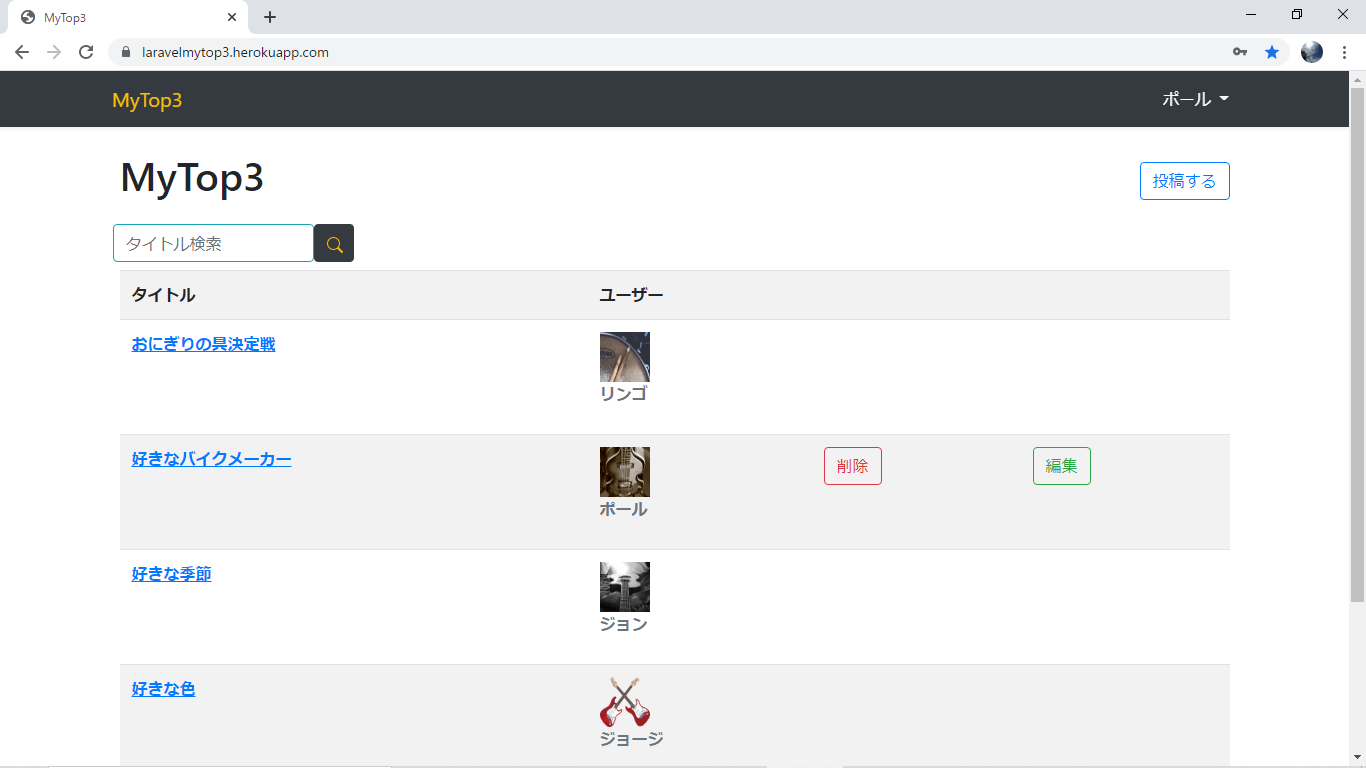
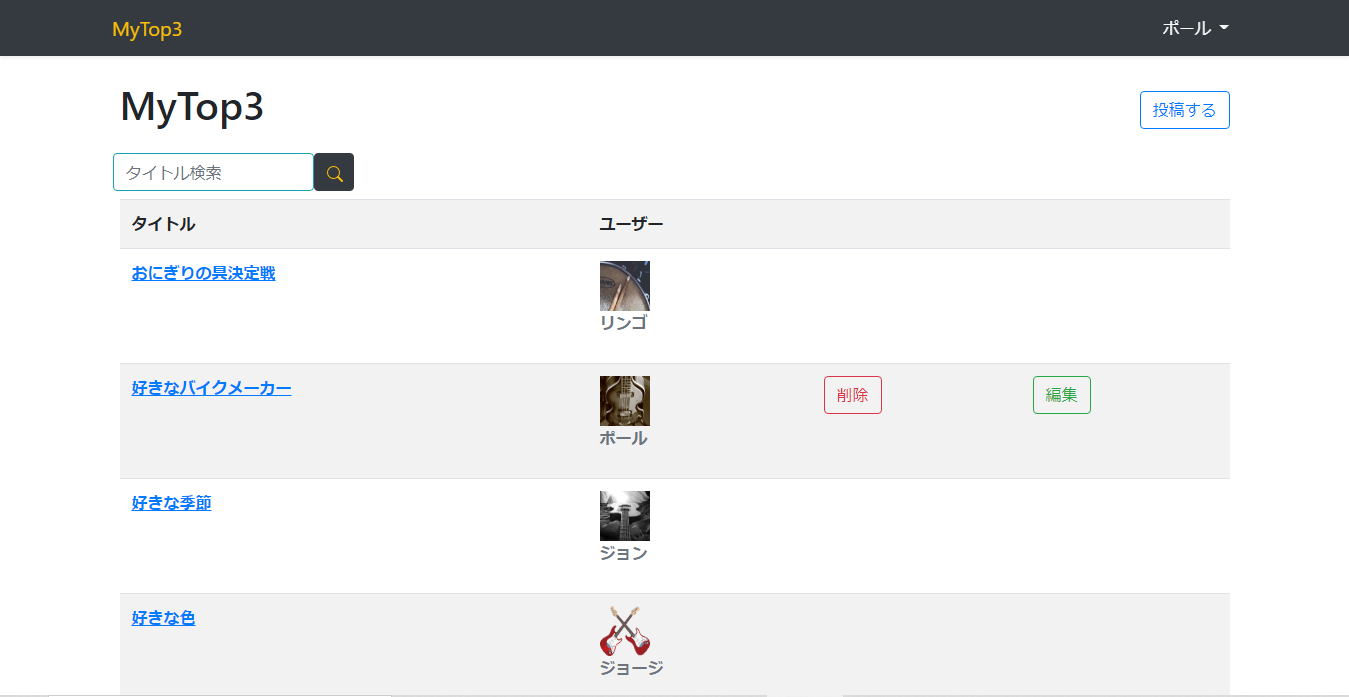
WORKSに他の成果物のカードを追加する #24
上記に併せて、phpをPHPに大文字表記、スマホの画面でのカードタイトルのパディングもう少し広くとり、成果物に対するコメント一言追加し、画像をコメントの下に移動した。

diff --git a/index.html b/index.html
@@ -61,26 +61,28 @@
             <div class="col">
               <p><h1>WORKS</h1></p>
               <div class="card mx-auto" style="width: 85%;">
-                <img src="img/mytop3.png" class="card-img-top">
                 <div class="card-body">
-                  <h5 class="card-title py-md-5 py-sm-3">個人的ランキング投稿サイト</h5>
+                  <h4 class="card-title">個人的ランキング投稿サイト</h4>
+                  <h5 id="comment">Laravelで基本的な機能の実装を経験出来て、尚且つ「世間ではあまり知られていないけれど実は優れているもの」を<br/>発掘するきっかけになるサイトがあったら楽しいだろうという理由で作成しました。
+                  </h5>
+                  <img src="img/mytop3.png" class="card-img">
                   <div class="row pb-3 text-left justify-content-center">
                     <div class="col-md-4 col-sm-12">
                       <div class="card-text">
-                        <ul class="list-unstyled">
-                          <p><h5 class="pb-2">開発環境</h5></p>
+                        <ul class="list-unstyled" id="list">
+                          <p><h5 class="pb-2" id="item">開発環境</h5></p>
                           <li>仮想マシン: VMware Workstation 15 Player</li>
                           <li>OS: CentOS8.2</li>
-                          <li>言語: php7.4 / HTML / CSS</li>
+                          <li>言語: PHP7.4 / HTML / CSS</li>
                           <li>Framework: Laravel6.2 / Bootstrap4.5</li>
                           <li>DB: MySQL8.0</li>    
                         </ul>
                       </div>
                     </div>
                     <div class="col-md-7 col-sm-12">
-                      <p><h5 class="pb-2">機能</h5></p>
                       <div class="card-text">
-                        <ul class="list-inline">
+                        <ul class="list-inline" id="list">
+                          <p><h5 class="pb-2" id="item">機能</h5></p>
                           <li class="list-inline-item">記事一覧画面</li>
                           <li class="list-inline-item">記事詳細画面</li>
                           <li class="list-inline-item">記事投稿 / 編集 / 削除</li>
@@ -100,6 +102,48 @@
                   <div class="my-md-4 my-sm-2">
                     <a href="https://laravelmytop3.herokuapp.com" target="_blank" class="btn btn-lg btn-primary mr-5">開く</a>
                     <a href="https://github.com/kokisgithub/MyTop3" target="_blank" class="btn btn-lg btn-dark">GitHub</a>
+                  </div>
+                </div>
+              </div>
+              <div class="card mx-auto" style="width: 85%;">
+                <div class="card-body">
+                  <h4 class="card-title">学習時間記録サイト</h4>
+                  <h5 id="comment">PHPのDateTimeクラスとPDOを使った初めての成果物です。</h5>
+                  <div class="row justify-content-center pt-md-4">
+                    <div class="col-md-6 col-sm-12">
+                      <img src="img/time_manager_index.png" class="card-img" style="width: 100%; height: 100%;">
+                    </div>
+                    <div class="col-md-6 col-sm-12">
+                      <img src="img/time_manager_result.png" class="card-img" style="width: 100%; height: 100%;">
+                    </div>
+                  </div>
+                  <div class="row pb-3 text-left justify-content-center">
+                    <div class="col-md-4 col-sm-12">
+                      <div class="card-text">
+                        <ul class="list-unstyled" id="list">
+                          <p><h5 class="pb-2" id="item">開発環境</h5></p>
+                          <li>仮想マシン: VMware Workstation 15 Player</li>
+                          <li>OS: CentOS8.0</li>
+                          <li>言語: PHP7.2 / HTML / CSS</li>
+                          <li>Bootstrap4.5</li>
+                          <li>DB: MySQL8.0</li>    
+                        </ul>
+                      </div>
+                    </div>
+                    <div class="col-md-5 col-sm-12">
+                      <div class="card-text">
+                        <ul class="list-unstyled" id="list">
+                          <p><h5 class="pb-2" id="item">機能</h5></p>
+                          <li>日付と開始時刻、終了時刻及び差分の時間登録</li>
+                          <li>月別の合計時間 / 総合時間 / 総合登録件数 / 各登録内容の表示 </li>
+                          <li>登録内容削除</li>
+                          <li>トークンによるCSRF対策</li>
+                        </ul>
+                      </div>
+                    </div>
+                  </div>
+                  <div class="my-md-4 my-sm-2">
+                    <a href="https://github.com/kokisgithub/time_manager" target="_blank" class="btn btn-lg btn-dark">GitHub</a>
                   </div>
                 </div>
               </div>

diff --git a/css/styles.css b/css/styles.css
@@ -1,5 +1,6 @@
 body {
   font-size: 15px;
+  font-family: Verdana, Geneva, Tahoma, sans-serif;
   width: 100%;
 }
 
@@ -19,7 +20,6 @@ header {
 .card-img-overlay h1 {
   font-weight: bold;
   font-size: 5rem;
-  font-family: Verdana, Geneva, Tahoma, sans-serif;
 }
 
 .card-img-overlay {
@@ -28,7 +28,6 @@ header {
 
 h1 {
   font-weight: bold;
-  font-family: Verdana, Geneva, Tahoma, sans-serif;
   padding-top: 5rem;
   padding-bottom: 3rem;
 }
@@ -42,22 +41,38 @@ section {
   padding-bottom: 10%;
 }
 
-.card-body {
+.card {
   background-color: #ffffe0;
-}
-
-.card-text li {
-  padding-bottom: 20px;
-  font-family: Verdana, Geneva, Tahoma, sans-serif;
+  margin-bottom: 10rem;
 }
 
 .list-inline-item {
   padding-right: 20px;
 }
 
-h5 {
+.card-title {
   font-weight: bold;
-  font-family:Verdana, Geneva, Tahoma, sans-serif;
+  padding-top: 2.5rem;
+  padding-bottom: 2.5rem;
+}
+
+.card-img {
+  padding-bottom: 2.5rem;
+}
+
+#item {
+  font-weight: bold;
+}
+
+#list li {
+  padding-bottom: 20px;
+}
+
+#comment {
+  margin-bottom: 4rem;
+  line-height: 2rem;
+  text-align: left;
+  display: inline-block ;
 }
 
 footer {
